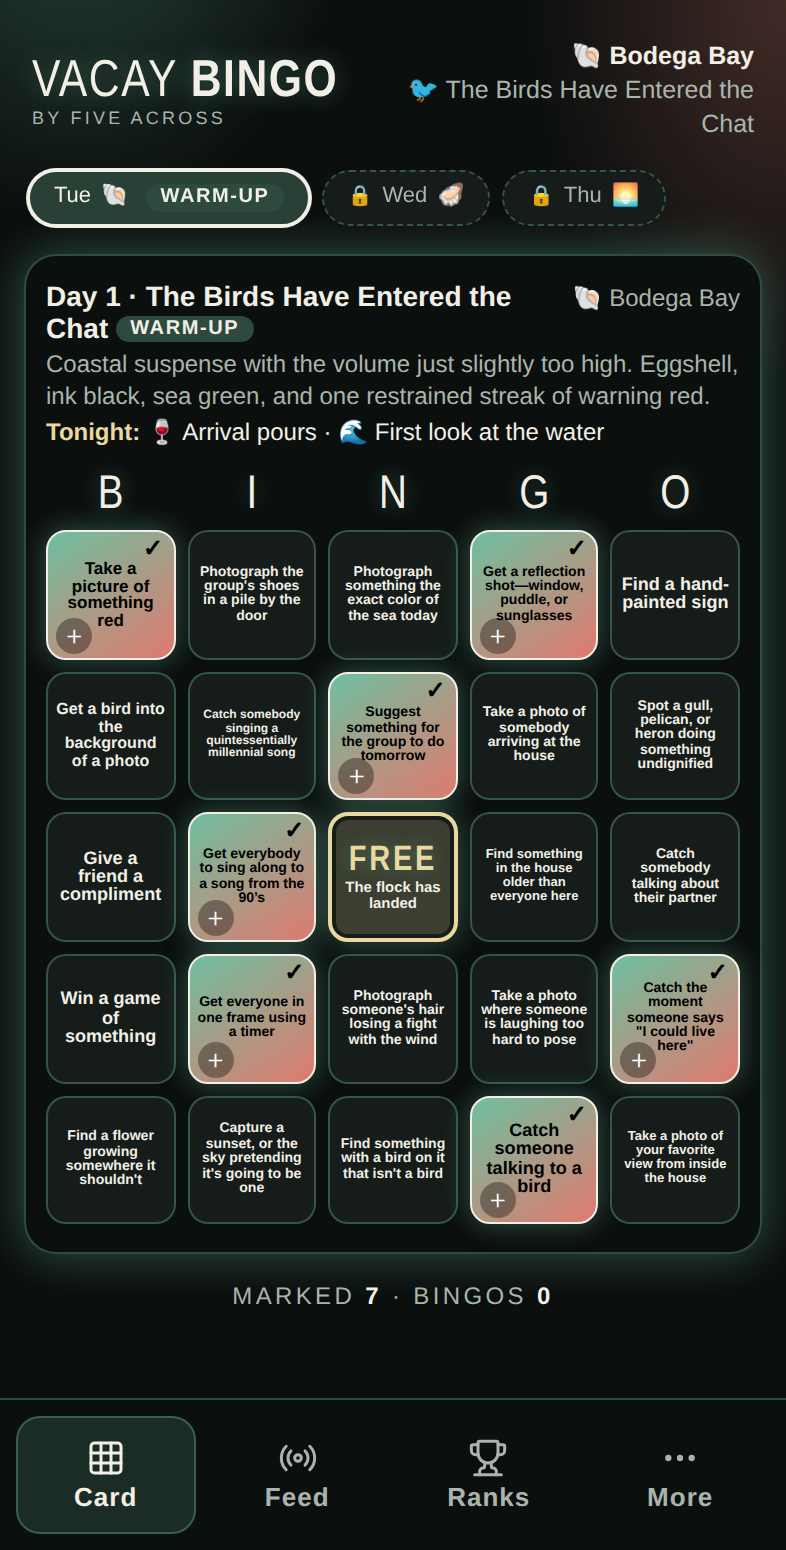
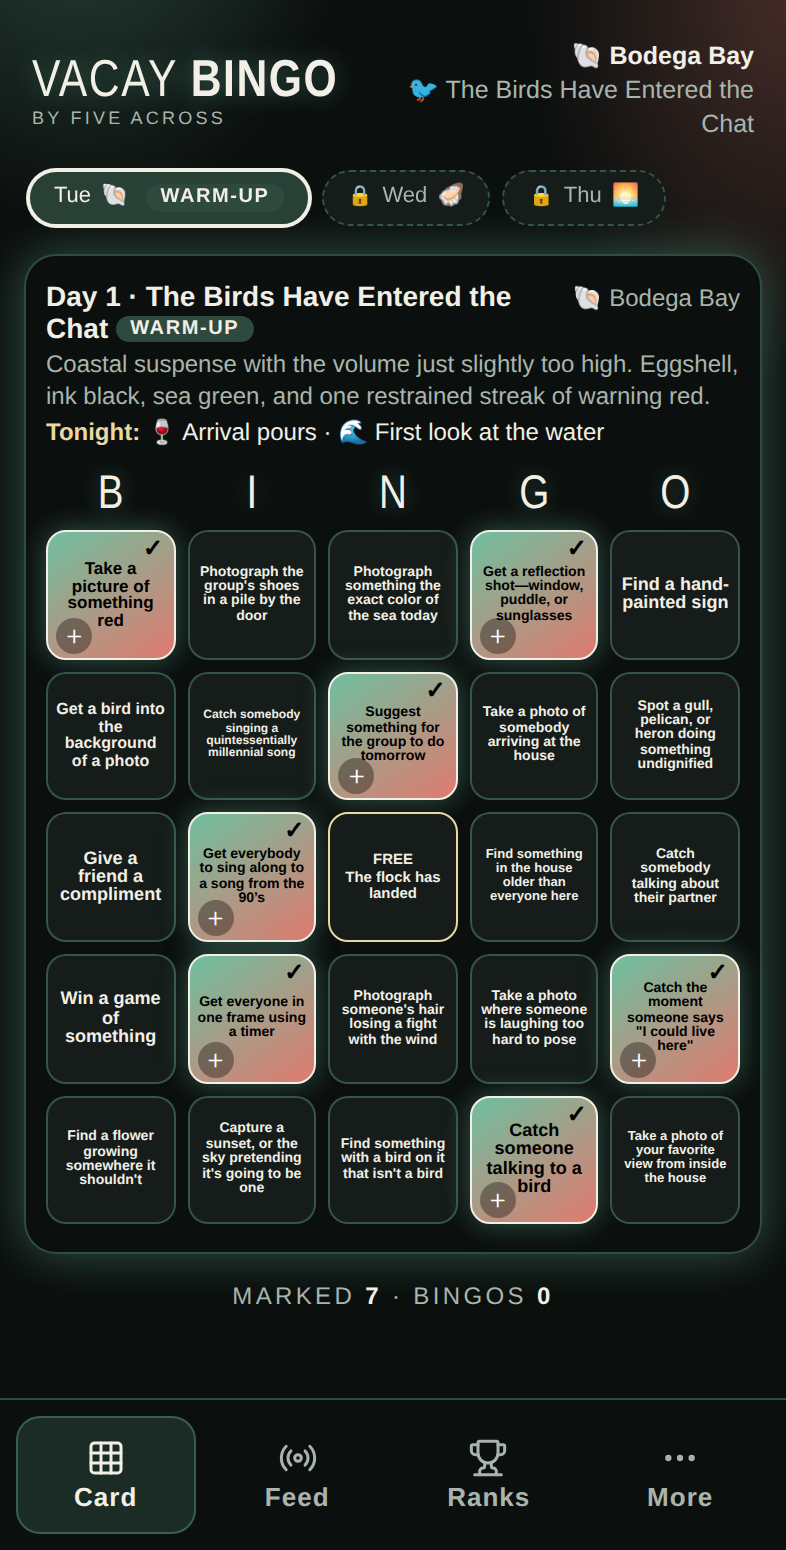
docs(readme): show all three identities, and give the Five Across capture a coherent occasion
- The README's Screenshots section now leads with the Five Across, Vacay Bingo and Gay Cruise Bingo Day Cards side by side, recaptured with the wireframe free square.
- tests/marketing/support/fixture.ts: HERO_EDITION=fiveacross deals the wedding weekend the wireframes draw for the platform (#fx-card-fa), 24 prompts verbatim, instead of Bodega prompts under platform chrome. The GCB capture's Tonight line is now med-2026's own Day 0 line, not Bodega's.
- docs/app/marketing-screenshots.md: the fiveacross capture, the seven-file README set, and the font check.

Claude-Session: https://claude.ai/code/session_01FULFnBSJ8bipT39Ntn1NQe

Changed region(s): [[0.3969, 0.4955, 0.6107, 0.6194]]

diff --git a/tests/marketing/support/fixture.ts b/tests/marketing/support/fixture.ts
@@ -42,6 +42,41 @@ import { ITEMS, EASY_ITEMS, CLOSING_ITEMS } from '../../../scripts/seed-data/bod
 // @ts-expect-error — plain-JS seed script, no type declarations.
 import { EASY_ITEMS as GCB_EMBARK_ITEMS } from '../../../scripts/seed-data/med-2026.mjs';
 
+/**
+ * The platform capture's occasion: the wedding weekend the wireframes draw for
+ * Five Across with no Edition on top (`#fx-card-fa` in
+ * plans/daily-cards-wireframes.html), prompts verbatim from that frame. The
+ * `fiveacross` build otherwise has no occasion-neutral pool to deal, and Bodega
+ * prompts under platform chrome read as a trip wearing someone else's clothes.
+ * General-audience throughout, like every pool this fixture seeds.
+ */
+const FIVE_ACROSS_ITEMS: ReadonlyArray<{ text: string; spicy?: boolean }> = [
+  'Someone cries during a toast',
+  'Ask the DJ for a song',
+  'Find your name on the seating chart',
+  'Photo with someone you just met',
+  'Grandparents on the dance floor',
+  'A speech runs past five minutes',
+  "Someone's phone rings mid-vow",
+  'Kids own the aisle',
+  'Two guests in the same color',
+  'Get a drink for a stranger',
+  'Group photo, wide angle',
+  'Someone loses a shoe',
+  'Best man forgets a name',
+  'Cake before dinner',
+  'Photograph the flowers',
+  'Sparkler photo attempt',
+  'Someone asks for the wifi',
+  'First dance, phones down',
+  'A table of empty glasses',
+  'Ask a barn staffer their favorite wedding',
+  'Bouquet lands nowhere near you',
+  'Late-night snack run',
+  'Selfie with the couple',
+  'Toast with someone new',
+].map((text) => ({ text, spicy: false }));
+
 /** Keep this literal in lockstep with scripts/marketing-shots.sh's PROJECT_ID:
  *  the emulator, the browser bundle and this seeder must all name the same
  *  demo project or the app's writes evaluate rules under a different one. */
@@ -189,7 +224,11 @@ export const heroDealable = (items: Array<{ text: string }>) =>
  * snapshot.
  */
 const EMBARK_ITEMS: ReadonlyArray<{ text: string; spicy?: boolean }> =
-  HERO_EDITION === 'gcb' ? GCB_EMBARK_ITEMS : EASY_ITEMS;
+  HERO_EDITION === 'gcb'
+    ? GCB_EMBARK_ITEMS
+    : HERO_EDITION === 'fiveacross'
+      ? FIVE_ACROSS_ITEMS
+      : EASY_ITEMS;
 
 /**
  * Invented display names. Deliberately NOT the real roster: first name plus an
@@ -242,7 +281,12 @@ export const HERO_DAY_DEAL: ReadonlyArray<{
   {
     pool: 'embark',
     // Each Edition's own warm-up copy. GCB's is med-2026's Day 0 free space.
-    freeText: HERO_EDITION === 'gcb' ? 'You made it aboard' : 'The flock has landed',
+    freeText:
+      HERO_EDITION === 'gcb'
+        ? 'You made it aboard'
+        : HERO_EDITION === 'fiveacross'
+          ? 'Kim & Jo said yes'
+          : 'The flock has landed',
     // The TUTORIAL pool of whichever Edition is under capture. For GCB that is
     // `embark` and ONLY `embark` — its main pool is not imported into this
     // file at all, so a Day-index change cannot reach it by accident.
@@ -322,11 +366,13 @@ const DAY_CHROME =
         ],
       }
     : {
+        // The wireframe's Five Across weekend: rehearsal Friday, the wedding
+        // Saturday, brunch Sunday, each in the platform's own Theme trio.
         defaultTheme: 'marquee',
         days: [
-          { place: 'Opening night', placeEmoji: '🎟', theme: 'marquee' },
-          { place: 'The main day', placeEmoji: '🎊', theme: 'confetti-hour' },
-          { place: 'The slow morning', placeEmoji: '🌙', theme: 'afterglow' },
+          { place: 'The Barn at Green Valley', placeEmoji: '🥂', theme: 'marquee' },
+          { place: 'The Barn at Green Valley', placeEmoji: '💍', theme: 'confetti-hour' },
+          { place: 'The Barn at Green Valley', placeEmoji: '🥞', theme: 'afterglow' },
         ],
       };
 
@@ -410,7 +456,7 @@ export async function seedHeroEvent(): Promise<RulesTestEnvironment> {
             ? 'Trieste to Barcelona'
             : HERO_EDITION === 'vacay'
               ? 'Bodega Bay'
-              : 'The weekend',
+              : 'Kim & Jo’s wedding',
         startsOn: isoDay(0),
         endsOn: isoDay(2),
         sailStart: isoDay(0),
@@ -427,7 +473,12 @@ export async function seedHeroEvent(): Promise<RulesTestEnvironment> {
             ...DAY_CHROME.days[0],
             port: DAY_CHROME.days[0].place,
             portEmoji: DAY_CHROME.days[0].placeEmoji,
-            tonight: ['🍷 Arrival pours', '🌊 First look at the water'],
+            tonight:
+              HERO_EDITION === 'fiveacross'
+                ? ['🥂 Run-through at five', '🍽 Dinner on the lawn']
+                : HERO_EDITION === 'gcb'
+                  ? ['⛵ Sail-Away Party', '🎉 Welcome Party'] // med-2026's own Day 0
+                  : ['🍷 Arrival pours', '🌊 First look at the water'],
             pool: HERO_DAY_DEAL[0].pool,
             // The warm-up card: tutorial pool, tutorial tag, gentlest prompts.
             tutorial: true,

diff --git a/docs/app/marketing-screenshots.md b/docs/app/marketing-screenshots.md
@@ -8,7 +8,7 @@ scripts/marketing-shots.sh
 
 Output lands in `artifacts/marketing/`: `vacay-card.png`, `vacay-feed.png`, `vacay-ranks.png`, at 393×775 CSS pixels and 2× DPR (786×1550), plus the two email mockups, `email-daily-card.png` and `email-winner-announcement.png` (see [The email mockups](#the-email-mockups)). Copy the one you want into the consuming repo; `artifacts/marketing/` itself stays uncommitted.
 
-The one exception is the README's own set, committed under `docs/images/`: `vacay-card`, `vacay-feed`, `vacay-ranks`, `gcb-card` and both emails. Refresh them by re-running the capture, reading every PNG, and copying the same six files over—never by editing a PNG.
+The one exception is the README's own set, committed under `docs/images/`: `fiveacross-card`, `vacay-card`, `vacay-feed`, `vacay-ranks`, `gcb-card` and both emails. Refresh them by re-running the capture once per Edition (`HERO_EDITION=fiveacross`, the default Vacay run, then `HERO_EDITION=gcb`), reading every PNG, and copying the same seven files over—never by editing a PNG.
 
 ## Why this exists instead of a phone screenshot
 
@@ -44,7 +44,7 @@ Dates are computed relative to *today* (`isoDay`), so the Event always reads as 
 | More or fewer marks | `MARKED` in `marketing-shots.spec.ts` |
 | A different dealt card | `FIXED_SEED` in `marketing-shots.spec.ts` |
 | Another screen | Add a tab click plus `page.screenshot` at the end of the spec |
-| Five Across platform chrome | `HERO_EDITION=fiveacross scripts/marketing-shots.sh` (see the caveat below) |
+| Five Across platform chrome | `HERO_EDITION=fiveacross scripts/marketing-shots.sh`—writes `fiveacross-card.png` etc. Deals the wireframe's wedding weekend (see below) |
 | Gay Cruise Bingo chrome | `HERO_EDITION=gcb scripts/marketing-shots.sh` — writes `gcb-card.png` etc. Deals the `embark` tutorial pool and wears the Event's own `neon-playground` Theme |
 | A different frame | `test.use({ viewport })` in the spec; `deviceScaleFactor` in `playwright.marketing.config.ts` |
 
@@ -60,7 +60,7 @@ Do **not** reach for med-2026's own neon Day (index 2) to get this look: that Da
 
 The distinction matters for the next person to change this file: the loose version ("only embark is seeded") would keep reading as true while a future edit widened one of the Bodega pools, hiding a posture regression behind a justification that no longer applied.
 
-**The `fiveacross` Edition is wired but unused.** It renders the platform wordmark and the occasion-neutral Themes (Marquee / Confetti Hour / Afterglow), but it would still deal *Bodega* prompts under a generic "the weekend" frame, which reads as incoherent. It needs an occasion-neutral prompt pool before it produces a publishable shot. The Vacay capture already carries `BY FIVE ACROSS` under the wordmark, which is the platform story anyway.
+**The `fiveacross` capture deals the wireframes' wedding weekend.** With no Edition on top, the platform has no occasion of its own, and Bodega prompts under its chrome read as incoherent. So for `HERO_EDITION=fiveacross` the fixture swaps in the occasion `#fx-card-fa` draws in `plans/daily-cards-wireframes.html`: Kim & Jo's wedding at The Barn at Green Valley, its 24 prompts verbatim, "Kim & Jo said yes" in the free space, and the platform's Marquee / Confetti Hour / Afterglow Themes. Only the warm-up Day is ever captured; Days 1 and 2 stay locked and still carry Bodega's pools, which no capture shows.
 
 ## The email mockups
 
@@ -81,5 +81,5 @@ The reader is Devon K., second on the board, so the "You're #N" and "You finishe
 - **Its own web port** (5184) and its own build output (`dist-marketing`), so a capture and an e2e run cannot serve or clobber each other's bundle.
 - **Do not run it concurrently with `npm run test:e2e`.** A distinct project id namespaces the data, not the sockets: both read the fixed emulator ports in `firebase.json` (8080, 9099), and `firebase emulators:exec` has no per-invocation port override, so the second run dies on the occupied ports before Playwright starts. Run them in sequence. Separating them properly needs a second firebase config wired through the bundle.
 - **`VITE_ADULT_CONTENT=false` is not enough on its own.** A single-Event build treats that as an unproven *seed* and re-derives the posture from `hostnames/{host}`; with no such document the posture fails closed and the 18+ gate returns after sign-in. The fixture therefore seeds `hostnames/127.0.0.1` with `adultContent: false` — which is the truthful value for a Bodega-pool Event, not a convenience.
-- **Fonts.** The app loads no webfonts: its display stack is `'Bebas Neue','Arial Narrow',sans-serif`, designed to land on Arial Narrow, which macOS ships as a supplemental font. On a host without it, Chromium falls to a wide generic sans; the capture still succeeds, but the wordmark and theme headlines render in the wrong face and the Free Space's `FREE` wraps onto two lines. Look for that wrap before publishing. On Linux, a metric-compatible substitute is Liberation Sans Narrow (Liberation 1.07; 2.x dropped it), installed locally under the family name `Arial Narrow`, because Chromium will not take a fontconfig alias as a match for it.
+- **Fonts.** The app loads no webfonts: its display stack is `'Bebas Neue','Arial Narrow',sans-serif`, designed to land on Arial Narrow, which macOS ships as a supplemental font. On a host without it, Chromium falls to a wide generic sans; the capture still succeeds, but the wordmark, the B-I-N-G-O header and the email Theme headlines render in the wrong face. Compare the wordmark against a committed `docs/images/` card before publishing. On Linux, a metric-compatible substitute is Liberation Sans Narrow (Liberation 1.07; 2.x dropped it), installed locally under the family name `Arial Narrow`, because Chromium will not take a fontconfig alias as a match for it.
 - **Java.** The Firestore emulator needs a JDK 21+ on `PATH`, the floor firebase-tools enforces. The script sources the shared probe, `scripts/lib/ensure-java.sh`, exactly as the emulator-backed npm entry points do: it runs `java -version` rather than testing for the binary — macOS ships a `/usr/bin/java` stub that exists and exits 1 — checks the reported major, and falls back to `JAVA_HOME`, `/usr/libexec/java_home` and Homebrew's keg-only `openjdk` prefixes.

diff --git a/README.md b/README.md
@@ -8,13 +8,19 @@ The platform wears an **Edition** per class of occasion and runs one **Event** p
 
 ## Screenshots
 
-The real app and the real email templates, captured over a seeded demo Event with invented players ([how they are made](docs/app/marketing-screenshots.md)). One platform, two Editions: the Vacay Bingo warm-up card beside the Gay Cruise Bingo one, then Vacay's Feed and Ranks.
+The real app and the real email templates, captured over a seeded demo Event with invented players ([how they are made](docs/app/marketing-screenshots.md)). One platform, three identities, each on its own opening Day: Five Across on its own at a wedding weekend, then the Vacay Bingo and Gay Cruise Bingo Editions. Grid, marking and navigation are identical; only chrome, palette and voice move.
 
 <p>
-  <img src="docs/images/vacay-card.png" width="200" alt="Vacay Bingo Day Card: a 5×5 board of Bodega Bay prompts with seven squares marked">
-  <img src="docs/images/gcb-card.png" width="200" alt="Gay Cruise Bingo Day Card: the boarding-day board in the Neon Playground Theme">
-  <img src="docs/images/vacay-feed.png" width="200" alt="Vacay Bingo Feed: text proofs, a shared Tally card and a BINGO Moment">
-  <img src="docs/images/vacay-ranks.png" width="200" alt="Vacay Bingo Ranks: the leaderboard with the Daily First to BINGO strip">
+  <img src="docs/images/fiveacross-card.png" width="260" alt="Five Across Day Card: a wedding-weekend board in the Marquee Theme, with no Edition on top">
+  <img src="docs/images/vacay-card.png" width="260" alt="Vacay Bingo Day Card: a 5×5 board of Bodega Bay prompts with seven squares marked">
+  <img src="docs/images/gcb-card.png" width="260" alt="Gay Cruise Bingo Day Card: the boarding-day board in the Neon Playground Theme">
+</p>
+
+The social surfaces, shown here in Vacay Bingo: the Feed and Ranks.
+
+<p>
+  <img src="docs/images/vacay-feed.png" width="260" alt="Vacay Bingo Feed: text proofs, a shared Tally card and a BINGO Moment">
+  <img src="docs/images/vacay-ranks.png" width="260" alt="Vacay Bingo Ranks: the leaderboard with the Daily First to BINGO strip">
 </p>
 
 The two player emails, both opt-in per Event: the morning Day Card, themed to the Day it announces, and the winner announcement after the Standings Freeze.
